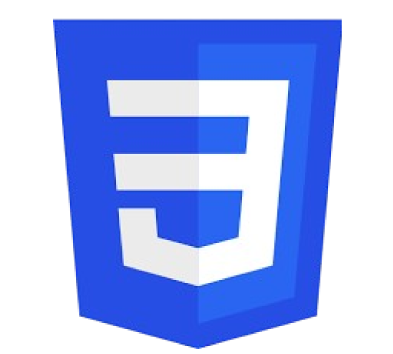
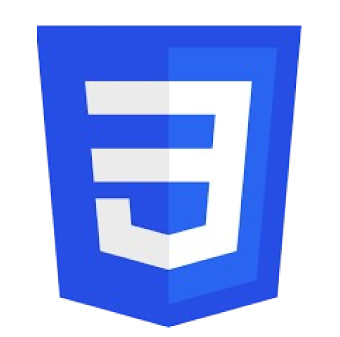
Almost done

diff --git a/src/Components/Skills.jsx b/src/Components/Skills.jsx
@@ -2,55 +2,61 @@ import React from 'react'
 
 import React_logo from '../Images/react.png';
 import Tailwind_logo from '../Images/tailwind.png';
+import MERN from '../Images/mern.png';
+import JS from '../Images/js.png'
+import CSS from '../Images/css.png'
+import HTML from '../Images/html.png'
+import WP from '../Images/wp.png'
+import SHOPIFY from '../Images/shopify.png'
 
 const Skills = () => {
     return (
         <div className='flex flex-col w-[90%] mx-auto py-[4%]'>
             <div className='flex flex-row mx-auto my-12' >
             <div className='w-[30%] flex static flex-col top-[30%]'>
-                <h2 className='text-[4vw] sticky top-[10%] font-bold tracking-wide leading-[85%] italic text-zinc-900 josefin-font'>Framed<br/>Skills</h2>
+                <h2 className='text-[4vw] sticky top-[10%] font-bold tracking-wide leading-[85%] italic text-zinc-900 josefin-font'>Technical <br/>Expertise</h2>
             </div>
             
             <div className='grid w-[70%] grid-cols-1 gap-[2%]'>
-                <div className={`flex flex-col py-5 mx-5 `}>
+                <div className={`flex flex-col py-2 mx-5 `}>
                     <img src={React_logo} alt='React Logo' className='w-[5vw] mb-2 ml-[-1%]'/>
                     <h3 className='text-[1.8vw] font-bold josefin-font'>React JS</h3>
-                    <h3 className='text-[1.3vw] font-normal'>Lorem ipsum dolor sit amet consectetur adipisicing elit. Asperiores nobis numquam reprehenderit, perferendis harum quibusdam ad quo impedit similique aspernatur fuga voluptatem, doloribus et officia possimus sint cum! Eius, voluptatibus!</h3>
+                    <h3 className='text-[1.3vw] font-normal'>Proficient in developing responsive and dynamic front-end applications using React JS. Experienced with React DOM, React Router, Firebase integration, and a wide array of libraries such as React Icons. Capable of building scalable and efficient front-end architectures.</h3>
                 </div>
-                <div className={`flex flex-col py-5 mx-5 `}>
-                    <img src={Tailwind_logo} alt='React Logo' className='w-[5vw] mb-2 ml-[-1%]'/>
+                <div className={`flex flex-col py-2 mx-5 `}>
+                    <img src={Tailwind_logo} alt='React Logo' className='w-[5vw] mb-2 ml-[0]'/>
                     <h3 className='text-[1.8vw] font-bold josefin-font'>Tailwind CSS</h3>
-                    <h3 className='text-[1.3vw] font-normal'>Lorem ipsum dolor sit amet consectetur adipisicing elit. Asperiores nobis numquam reprehenderit, perferendis harum quibusdam ad quo impedit similique aspernatur fuga voluptatem, doloribus et officia possimus sint cum! Eius, voluptatibus!</h3>
+                    <h3 className='text-[1.3vw] font-normal'> Expertise in Tailwind CSS, with the ability to create customized and extendable themes for responsive and visually appealing user interfaces. Skilled in rapidly building modern, optimized layouts.</h3>
                 </div>
-                <div className={`flex flex-col py-5 mx-5 `}>
-                    <img src={React_logo} alt='React Logo' className='w-[5vw] mb-2 ml-[-1%]'/>
+                <div className={`flex flex-col py-2 mx-5 `}>
+                    <img src={MERN} alt='React Logo' className='w-[20vw] mb-2 ml-[-1%]'/>
                     <h3 className='text-[1.8vw] font-bold josefin-font'>MERN</h3>
-                    <h3 className='text-[1.3vw] font-normal'>Lorem ipsum dolor sit amet consectetur adipisicing elit. Asperiores nobis numquam reprehenderit, perferendis harum quibusdam ad quo impedit similique aspernatur fuga voluptatem, doloribus et officia possimus sint cum! Eius, voluptatibus!</h3>
+                    <h3 className='text-[1.3vw] font-normal'>Proficient in the full MERN stack (MongoDB, Express, React, Node.js), seamlessly connecting front-end and back-end with database integration. Adept at creating well-structured, performance-optimized web applications.</h3>
                 </div>
-                <div className={`flex flex-col py-5 mx-5 `}>
-                    <img src={React_logo} alt='React Logo' className='w-[5vw] mb-2 ml-[-1%]'/>
+                <div className={`flex flex-col py-2 mx-5 `}>
+                    <img src={JS} alt='React Logo' className='w-[5vw] mb-2 ml-[-1%]'/>
                     <h3 className='text-[1.8vw] font-bold josefin-font'>JavaScript</h3>
-                    <h3 className='text-[1.3vw] font-normal'>Lorem ipsum dolor sit amet consectetur adipisicing elit. Asperiores nobis numquam reprehenderit, perferendis harum quibusdam ad quo impedit similique aspernatur fuga voluptatem, doloribus et officia possimus sint cum! Eius, voluptatibus!</h3>
+                    <h3 className='text-[1.3vw] font-normal'>Strong command of JavaScript, including data binding, state management, and sequence control. Skilled in implementing dynamic features and functionality across applications.</h3>
                 </div>
-                <div className={`flex flex-col py-5 mx-5 `}>
-                    <img src={React_logo} alt='React Logo' className='w-[5vw] mb-2 ml-[-1%]'/>
+                <div className={`flex flex-col py-2 mx-5 `}>
+                    <img src={HTML} alt='React Logo' className='w-[5vw] mb-2 ml-[-1%]'/>
                     <h3 className='text-[1.8vw] font-bold josefin-font'>HTML5</h3>
-                    <h3 className='text-[1.3vw] font-normal'>Lorem ipsum dolor sit amet consectetur adipisicing elit. Asperiores nobis numquam reprehenderit, perferendis harum quibusdam ad quo impedit similique aspernatur fuga voluptatem, doloribus et officia possimus sint cum! Eius, voluptatibus!</h3>
+                    <h3 className='text-[1.3vw] font-normal'>Extensive experience with HTML, ensuring the proper use of each element to create well-structured and accessible web content.</h3>
                 </div>
-                <div className={`flex flex-col py-5 mx-5 `}>
-                    <img src={React_logo} alt='React Logo' className='w-[5vw] mb-2 ml-[-1%]'/>
+                <div className={`flex flex-col py-2 mx-5 `}>
+                    <img src={CSS} alt='React Logo' className='w-[5vw] mb-2 ml-[-1%]'/>
                     <h3 className='text-[1.8vw] font-bold josefin-font'>CSS</h3>
-                    <h3 className='text-[1.3vw] font-normal'>Lorem ipsum dolor sit amet consectetur adipisicing elit. Asperiores nobis numquam reprehenderit, perferendis harum quibusdam ad quo impedit similique aspernatur fuga voluptatem, doloribus et officia possimus sint cum! Eius, voluptatibus!</h3>
+                    <h3 className='text-[1.3vw] font-normal'>Expertise in CSS for styling and designing websites. Skilled in creating responsive, visually appealing, and user-friendly designs.</h3>
                 </div>
-                <div className={`flex flex-col py-5 mx-5 `}>
-                    <img src={React_logo} alt='React Logo' className='w-[5vw] mb-2 ml-[-1%]'/>
+                <div className={`flex flex-col py-2 mx-5 `}>
+                    <img src={WP} alt='React Logo' className='w-[5vw] mb-2 ml-[-1%]'/>
                     <h3 className='text-[1.8vw] font-bold josefin-font'>WordPress</h3>
-                    <h3 className='text-[1.3vw] font-normal'>Lorem ipsum dolor sit amet consectetur adipisicing elit. Asperiores nobis numquam reprehenderit, perferendis harum quibusdam ad quo impedit similique aspernatur fuga voluptatem, doloribus et officia possimus sint cum! Eius, voluptatibus!</h3>
+                    <h3 className='text-[1.3vw] font-normal'>Capable of developing and managing WordPress websites tailored to client needs. Proficient in creating eCommerce platforms and customizing themes for various business requirements.</h3>
                 </div>
-                <div className={`flex flex-col py-5 mx-5 `}>
-                    <img src={React_logo} alt='React Logo' className='w-[5vw] mb-2 ml-[-1%]'/>
+                <div className={`flex flex-col py-2 mx-5 `}>
+                    <img src={SHOPIFY} alt='React Logo' className='w-[5vw] mb-2 ml-[-1%]'/>
                     <h3 className='text-[1.8vw] font-bold josefin-font'>Shopify</h3>
-                    <h3 className='text-[1.3vw] font-normal'>Lorem ipsum dolor sit amet consectetur adipisicing elit. Asperiores nobis numquam reprehenderit, perferendis harum quibusdam ad quo impedit similique aspernatur fuga voluptatem, doloribus et officia possimus sint cum! Eius, voluptatibus!</h3>
+                    <h3 className='text-[1.3vw] font-normal'>Skilled in developing robust eCommerce websites on Shopify, with expertise in managing product displays and handling store functionality. Capable of creating streamlined, user-friendly shopping experiences tailored to client needs.</h3>
                 </div>
             </div>
         </div>

diff --git a/src/Components/LetsWork.jsx b/src/Components/LetsWork.jsx
@@ -1,0 +1,47 @@
+import React from 'react';
+import self_img from '../Images/60188.jpg';
+import { FaArrowRight as Arrow} from "react-icons/fa6";
+import '../index.css'
+
+const About = () => {
+  
+  return (
+    <div className='w-[90%] mx-auto pt-[17%] pb-[5%] flex flex-col static top-[20%] justify-start items-center '>
+      <div
+        id='about-heading'
+        className='flex text-center top-[20%] mb-[3%] flex-col'
+      >
+        <h2 className='text-[5.5vw] uppercase lg:leading-[90%] font-bold josefin-font'>
+          Let's Work <br /> TOgether
+        </h2>
+        <div className='w-fit mx-auto text-[1.2vw] bg-stone-800 px-4 pt-3 mt-5 pb-2 font-bold josefin-font uppercase text-stone-100 rounded-[50px] transition-transform ease-in-out duration-[0.5s] hover:scale-[1.05] cursor-pointer'>
+          <a href={'/'} alt='Link to contact me'>Contact now</a>
+        </div>
+      </div>
+      <div className='relative mb-[3%]'>
+        <img
+          id='about-image'
+          src={self_img}
+          className='w-[24vw] h-[70vh] object-cover rounded-[200px] shadow-2xl shadow-stone-300'
+          alt='Anser Shafiq'
+        />
+      </div>
+      <div className='mb-4% text-center w-[70%] mx-auto'>
+        <h2 className='text-[1.1vw] uppercase font-[500] josefin-font'>Based in Pakistan, I am a skilled Full Stack Developer with expertise in creating dynamic,<br/> responsive websites. My passion for efficient code, seamless user experiences, and<br/> cutting-edge technologies is reflected in the solutions I build.</h2>        
+        <div className='flex flex-row my-4 justify-center transition'>
+            <a className='mx-3 inline-flex items-center text-[1.1vw] p-0 uppercase josefin-font font-bold transitive-underline' href='/'>
+                Gmail <Arrow className='rotate-[-45deg] text-[1.2vw] mb-1 ml-1'/>
+            </a>
+            <a className='mx-3 inline-flex items-center text-[1.1vw] p-0 uppercase josefin-font font-bold transitive-underline' href='/'>
+                LinkedIn <Arrow className='rotate-[-45deg] text-[1.2vw] mb-1 ml-1'/>
+            </a>
+            <a className='mx-3 inline-flex items-center text-[1.1vw] p-0 uppercase josefin-font font-bold transitive-underline' href='/'>
+                Instagram <Arrow className='rotate-[-45deg] text-[1.2vw] mb-1 ml-1'/>
+            </a>
+        </div>
+      </div>
+    </div>
+  );
+};
+
+export default About;

diff --git a/src/Components/About.jsx b/src/Components/About.jsx
@@ -37,7 +37,7 @@ const About = () => {
         className='flex text-center sticky top-[20%] mb-[3%] flex-col'
         style={{ opacity: headingOpacity, transition: 'opacity 0.3s ease-in-out' }}
       >
-        <h2 className='text-[5.5vw] uppercase lg:leading-[85%] font-bold josefin-font'>
+        <h2 className='text-[5.5vw] uppercase lg:leading-[90%] font-bold josefin-font'>
           More About <br /> Anser Shafiq
         </h2>
       </div>
@@ -52,7 +52,7 @@ const About = () => {
       <div className='mb-4% text-center w-[70%] mx-auto'>
         <h2 className='text-[1.4vw] uppercase font-[700] josefin-font'>I am a seasoned software engineer with extensive expertise in web application development, utilizing modern technologies such as React JS, MERN stack, Tailwind CSS, HTML, CSS, JavaScript, WordPress, and Shopify.</h2>
         <h2 className='text-[1.1vw] font-[400] rubik-font mt-2 mb-[5%]'>My experience spans building high-performance, fully responsive, and optimized websites, with a keen focus on crafting intuitive, user-friendly interfaces and scalable architectures. I excel in delivering tailored web solutions that not only meet technical requirements but also enhance the overall user experience and ensure cross-device compatibility, making each project both visually appealing and highly functional.</h2>
-        <div className='w-fit mx-auto text-[1.2vw] bg-stone-800 px-4 pt-3 pb-2 font-bold josefin-font uppercase text-stone-200 rounded-[50px] transition-transform ease-in-out duration-[0.5s] hover:scale-[1.05] cursor-pointer'>
+        <div className='w-fit mx-auto text-[1.2vw] bg-stone-800 px-4 pt-3 pb-2 font-bold josefin-font uppercase text-stone-100 rounded-[50px] transition-transform ease-in-out duration-[0.5s] hover:scale-[1.05] cursor-pointer'>
           <a href={fileURL} download={fileURL} alt='Link to my resume'>My Resume</a>
         </div>
       </div>

diff --git a/src/index.css b/src/index.css
@@ -39,3 +39,25 @@ code {
   font-family: source-code-pro, Menlo, Monaco, Consolas, 'Courier New',
     monospace;
 }
+
+.transitive-underline {
+  position: relative;
+}
+
+.transitive-underline::after {
+  content: '';
+  position: absolute;
+  left: 0;
+  bottom: 0;
+  width: 100%;
+  height: 2px; /* Custom thickness */
+  background-color: #000; /* Custom color */
+  transform: scaleX(0);
+  transform-origin: bottom left;
+  transition: transform 0.4s ease-in-out; /* Custom duration */
+}
+
+.transitive-underline:hover::after {
+  transform: scaleX(1);
+  transform-origin: bottom right; 
+}

diff --git a/src/Components/Footer.jsx b/src/Components/Footer.jsx
@@ -1,0 +1,13 @@
+import React from 'react'
+import { AiFillCopyrightCircle as Copyright} from "react-icons/ai";
+
+const Footer = () => {
+  return (
+    <div className='w-full static z-[100] flex flex-col justify-center items-center px-[5%] pt-[2%] pb-[1%] shadow-sm '>
+        <h2 className='text-[8vw] sticky bottom-[5%] uppercase lg:leading-[90%] font-bold josefin-font'>Anser Shafiq</h2>
+        <h3 className='text-[1.3vw] uppercase font-[600] flex items-center'><Copyright className='mb-[-1.5%] mr-2'/> 2024 All right reserved</h3>
+    </div>
+  )
+}
+
+export default Footer

diff --git a/src/Home.jsx b/src/Home.jsx
@@ -4,6 +4,7 @@ import Projects from './Components/Projects'
 import About from './Components/About'
 import Experience from './Components/Experience'
 import Skills from './Components/Skills'
+import LetsWork from './Components/LetsWork'
 
 const Home = () => {
   return (
@@ -13,6 +14,7 @@ const Home = () => {
         <About />
         <Experience />
         <Skills />
+        <LetsWork />
         {/* <div className='h-[100vh]'></div> */}
     </div>
   )

diff --git a/src/App.js b/src/App.js
@@ -2,6 +2,7 @@ import React from 'react'
 import { BrowserRouter as Router, Routes, Route } from 'react-router-dom'
 import Header from './Components/Header'
 import Home from './Home'
+import Footer from './Components/Footer'
 
 const App = () => {
   return (
@@ -11,6 +12,7 @@ const App = () => {
       <Routes>
         <Route path='/' element={<Home />}/>
       </Routes>
+      <Footer />
     </Router>
     </>
   )

diff --git a/tailwind.config.js b/tailwind.config.js
@@ -8,9 +8,19 @@ module.exports = {
       colors:{
         transparent: 'transparent',
         current: 'currentColor',
+        'underline-black':'#000',
         'header-back': '#262626',
+      },
+      height:{
+        'underline-thinkness': '2px',
+      },
+      transitionDuration:{
+        'underline': '1000ms'
       }
+
+
     },
   },
-  plugins: [],
+  plugins: [
+  ],
 } 

diff --git a/src/Components/Projects.jsx b/src/Components/Projects.jsx
@@ -20,7 +20,7 @@ const Projects = () => {
         name: 'RybelX',
         link: 'https://rybelx.com/',
         type: 'Sports Brand',
-        picture: require('../Images/labour.PNG'),
+        picture: require('../Images/rybelx.PNG'),
         date: 'June/2024'
     },
     {
